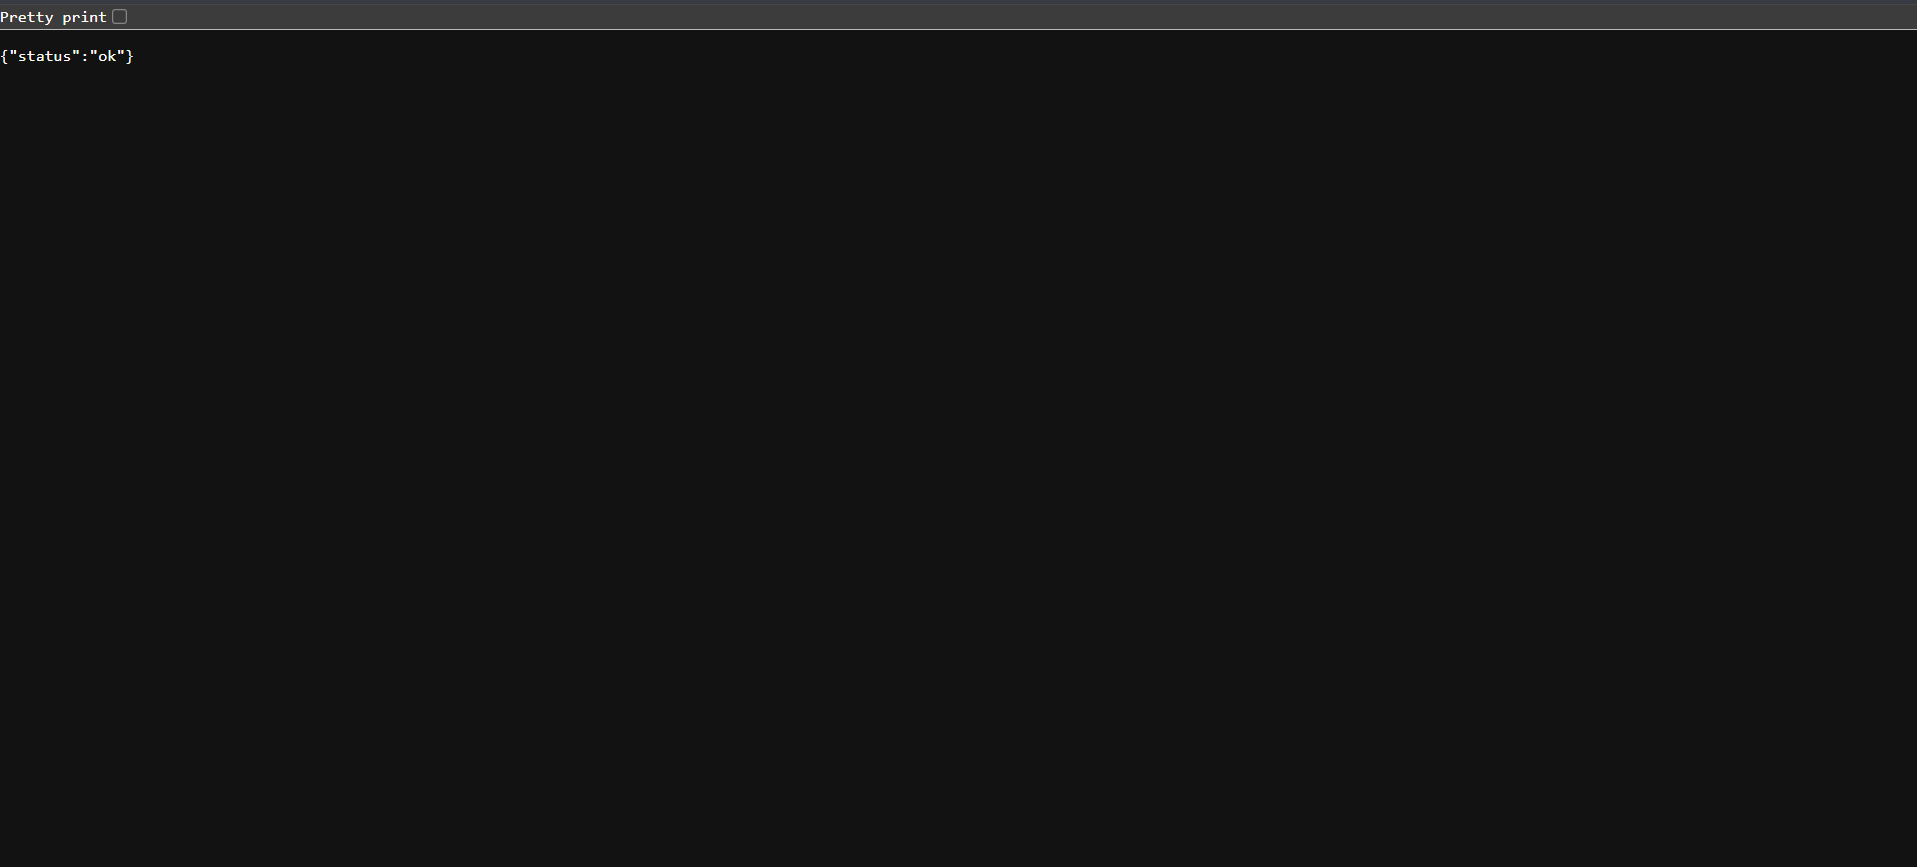
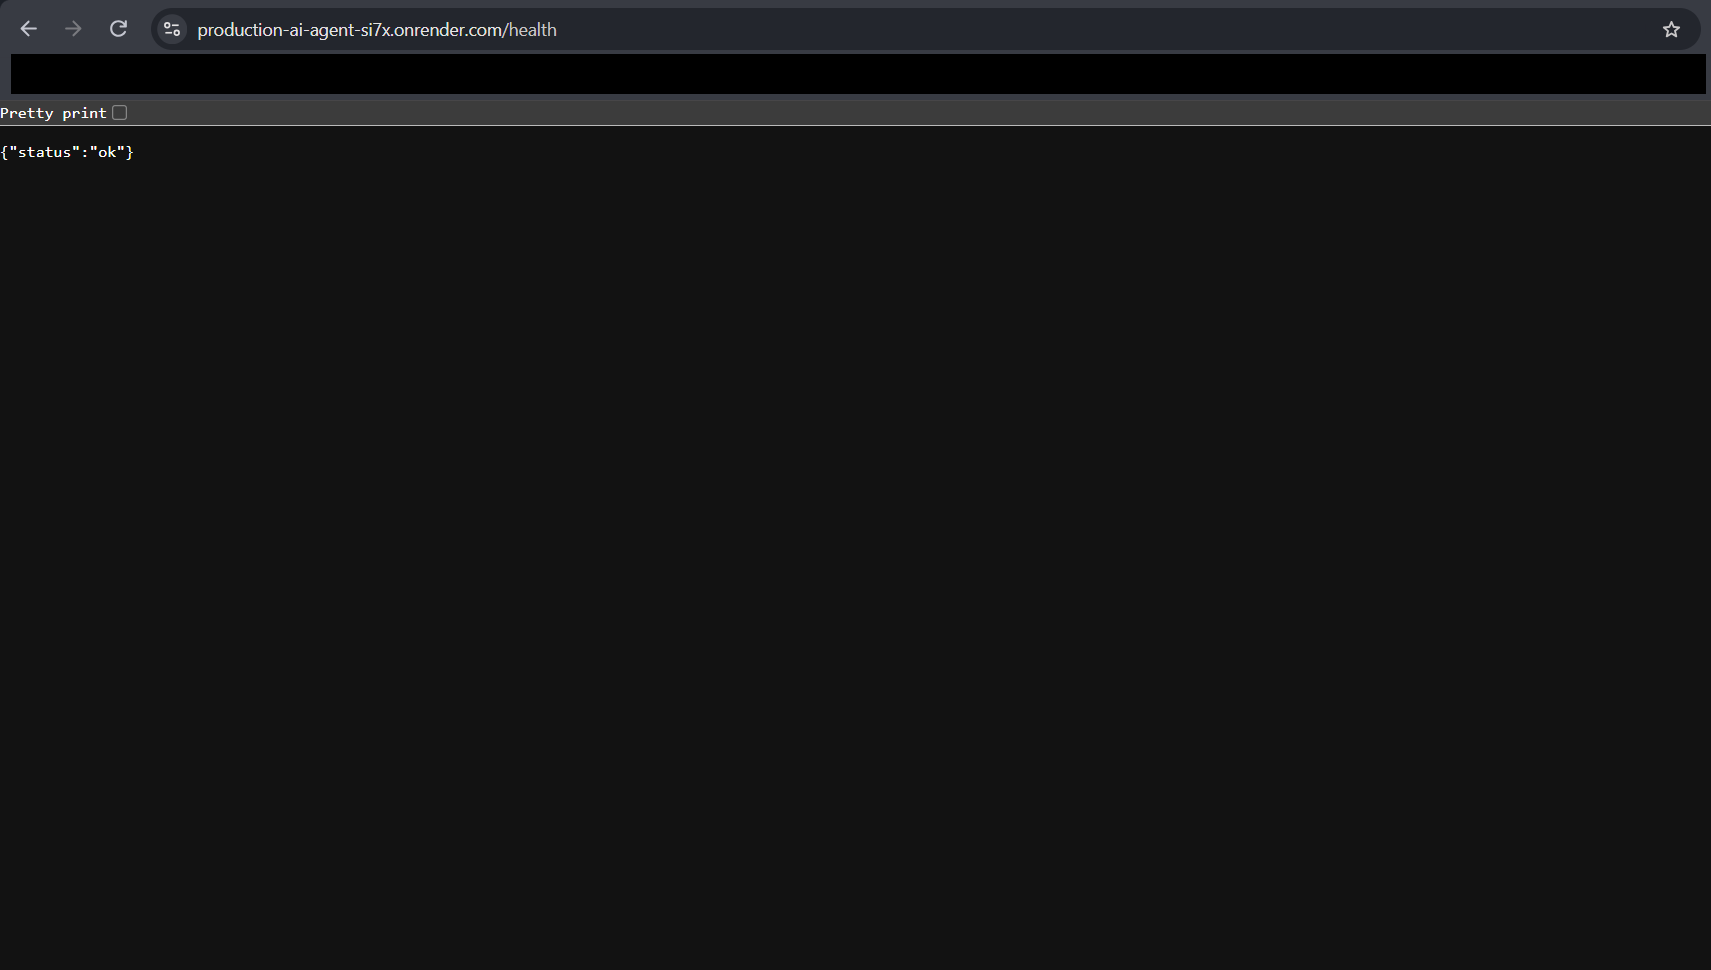
Finalize report: PASS 12/12, benchmark conclusions, running screenshot
- MISSION_ANSWERS: Part 6 checker output from WSL2 (PASS 12/12, 43/43)
- BENCHMARK_REPORT: section 6 conclusions
- screenshots/running.png: show public URL in address bar

Changed region(s): [[0.0, 0.0, 1.0, 0.1869]]

diff --git a/BENCHMARK_REPORT.md b/BENCHMARK_REPORT.md
@@ -10,11 +10,11 @@
 
 ## 1. SLO của agent
 
-| SLI | SLO | Lý do chọn ngưỡng này |
-|---|---|---|
-| p95 latency `/ask` | < 500 ms | Mock LLM trả lời ~200 ms (p50 ≈ 200 ms đo được); 500 ms chừa ~2,5× headroom cho retrieval và mạng mà người dùng chat vẫn thấy "nhanh". Khớp `--slo-p95-ms` mặc định của `load_test.py`. |
-| Error rate `/ask` | < 2 % | Mock LLM có `MOCK_ERROR_RATE=1%` lỗi upstream không tránh được; 2% = gấp đôi mức nền làm error budget, vượt mức này là có sự cố thật. |
-| Accuracy trên golden dataset | ≥ 80 % (gate release); mục tiêu 100% | 80% là ngưỡng mặc định của `run_eval.py`. Bộ 23 câu đều là kiến thức trong knowledge base, nên sau khi sửa KB, đặt `--min-accuracy 1.0` để mọi câu sai đều chặn merge. |
+| SLI                           | SLO                                     | Lý do chọn ngưỡng này                                                                                                                                                                                        |
+| ----------------------------- | --------------------------------------- | ----------------------------------------------------------------------------------------------------------------------------------------------------------------------------------------------------------------- |
+| p95 latency `/ask`          | < 500 ms                                | Mock LLM trả lời ~200 ms (p50 ≈ 200 ms đo được); 500 ms chừa ~2,5× headroom cho retrieval và mạng mà người dùng chat vẫn thấy "nhanh". Khớp `--slo-p95-ms` mặc định của `load_test.py`. |
+| Error rate `/ask`           | < 2 %                                   | Mock LLM có `MOCK_ERROR_RATE=1%` lỗi upstream không tránh được; 2% = gấp đôi mức nền làm error budget, vượt mức này là có sự cố thật.                                                     |
+| Accuracy trên golden dataset | ≥ 80 % (gate release); mục tiêu 100% | 80% là ngưỡng mặc định của `run_eval.py`. Bộ 23 câu đều là kiến thức trong knowledge base, nên sau khi sửa KB, đặt `--min-accuracy 1.0` để mọi câu sai đều chặn merge.               |
 
 ---
 
@@ -22,12 +22,12 @@
 
 ### 2.1 Concurrency vs latency (agent v2)
 
-| Concurrency | RPS | p50 (ms) | p95 (ms) | p99 (ms) | Error rate | SLO |
-|---|---|---|---|---|---|---|
-| 1 | 4.27 | 199.9 | 234.5 | 1683.2 | 1.00% | PASS |
-| 10 | 39.84 | 196.9 | 237.1 | 1695.7 | 0.67% | PASS |
-| 50 | 105.85 | 210.3 | 266.0 | 1722.6 | 0.67% | PASS |
-| 100 | 67.1 | 293.2 | 2685.8 | 3104.8 | 1.00% | FAIL (p95) |
+| Concurrency | RPS    | p50 (ms) | p95 (ms) | p99 (ms) | Error rate | SLO        |
+| ----------- | ------ | -------- | -------- | -------- | ---------- | ---------- |
+| 1           | 4.27   | 199.9    | 234.5    | 1683.2   | 1.00%      | PASS       |
+| 10          | 39.84  | 196.9    | 237.1    | 1695.7   | 0.67%      | PASS       |
+| 50          | 105.85 | 210.3    | 266.0    | 1722.6   | 0.67%      | PASS       |
+| 100         | 67.1   | 293.2    | 2685.8   | 3104.8   | 1.00%      | FAIL (p95) |
 
 Nguồn: `reports/load_v2_c{1,10,50,100}.json` (300 request mỗi mức).
 
@@ -40,10 +40,10 @@ Các request chậm ~1,7 s ở p99 tại mọi mức concurrency là tail latenc
 ### 2.2 Tail latency
 
 | `MOCK_SLOW_RATE` | avg (ms) | p95 (ms) | p99 (ms) |
-|---|---|---|---|
-| 0 | 191.9 | 232.8 | 241.9 |
-| 0.03 (mặc định) | 222.4 | 238.8 | 1691.3 |
-| 0.1 | 354.8 | 1682.0 | 1721.8 |
+| ------------------ | -------- | -------- | -------- |
+| 0                  | 191.9    | 232.8    | 241.9    |
+| 0.03 (mặc định) | 222.4    | 238.8    | 1691.3   |
+| 0.1                | 354.8    | 1682.0   | 1721.8   |
 
 Nguồn: `reports/load_v2_slow_{0,0.03,0.1}.json` (300 request, concurrency 20).
 
@@ -57,22 +57,22 @@ SLO không nên đặt theo average vì avg gộp đuôi chậm vào số đông
 
 ## 3. Benchmark chất lượng (develop, `eval/run_eval.py`)
 
-| Chỉ số | Agent v1 | Agent v2 | Agent v2 (sau khi sửa KB) |
-|---|---|---|---|
-| Accuracy | 4.35% (1/23) | 91.3% (21/23) | 100.0% (23/23) |
-| Avg tokens / câu | 55.9 | 109.1 | 117.6 |
-| Tổng cost (USD) | 0.000388 | 0.000762 | 0.000824 |
-| Cost / câu đúng (USD) | 0.00038775 | 0.00003627 | 0.00003583 |
-| Quality gate | FAIL (accuracy < 80%) | PASS (≥ 80%, 0 regression so với v1) | PASS (`--min-accuracy 1.0`, 0 regression so với v2) |
+| Chỉ số                 | Agent v1              | Agent v2                               | Agent v2 (sau khi sửa KB)                             |
+| ------------------------ | --------------------- | -------------------------------------- | ------------------------------------------------------ |
+| Accuracy                 | 4.35% (1/23)          | 91.3% (21/23)                          | 100.0% (23/23)                                         |
+| Avg tokens / câu        | 55.9                  | 109.1                                  | 117.6                                                  |
+| Tổng cost (USD)         | 0.000388              | 0.000762                               | 0.000824                                               |
+| Cost / câu đúng (USD) | 0.00038775            | 0.00003627                             | 0.00003583                                             |
+| Quality gate             | FAIL (accuracy < 80%) | PASS (≥ 80%, 0 regression so với v1) | PASS (`--min-accuracy 1.0`, 0 regression so với v2) |
 
 Nguồn: `reports/eval_v1.json`, `reports/eval_v2.json`, `reports/eval_v2_fixed.json`.
 
 **Những câu v2 trả lời sai ban đầu và cách bạn sửa:**
 
-| ID | Keyword bị thiếu | Bạn đã sửa gì |
-|---|---|---|
-| security-02 ("JWT khác gì API key trong xác thực?") | `token`, `hết hạn`, `chữ ký` | KB chưa có tài liệu nào về JWT nên retrieval trả về rỗng, LLM trả câu chung chung. Thêm entry vào `KNOWLEDGE_BASE` với từ khoá kích hoạt `jwt`, `api key`, `xác thực`, nội dung giải thích JWT là token tự chứa, server kiểm chữ ký, có thời điểm hết hạn (claim `exp`), khác API key cố định. |
-| scaling-03 ("Kubernetes HPA scale dựa trên những chỉ số nào?") | `cpu`, `memory`, `custom metrics` | Tương tự, KB không có tài liệu về HPA. Thêm entry kích hoạt bởi `kubernetes`, `hpa`, `autoscal`: HPA scale theo CPU, memory utilization hoặc custom metrics. |
+| ID                                                                   | Keyword bị thiếu                      | Bạn đã sửa gì                                                                                                                                                                                                                                                                                                                               |
+| -------------------------------------------------------------------- | --------------------------------------- | ------------------------------------------------------------------------------------------------------------------------------------------------------------------------------------------------------------------------------------------------------------------------------------------------------------------------------------------------ |
+| security-02 ("JWT khác gì API key trong xác thực?")              | `token`, `hết hạn`, `chữ ký`  | KB chưa có tài liệu nào về JWT nên retrieval trả về rỗng, LLM trả câu chung chung. Thêm entry vào `KNOWLEDGE_BASE` với từ khoá kích hoạt `jwt`, `api key`, `xác thực`, nội dung giải thích JWT là token tự chứa, server kiểm chữ ký, có thời điểm hết hạn (claim `exp`), khác API key cố định. |
+| scaling-03 ("Kubernetes HPA scale dựa trên những chỉ số nào?") | `cpu`, `memory`, `custom metrics` | Tương tự, KB không có tài liệu về HPA. Thêm entry kích hoạt bởi `kubernetes`, `hpa`, `autoscal`: HPA scale theo CPU, memory utilization hoặc custom metrics.                                                                                                                                                                  |
 
 Trước khi thêm, đã grep `golden_dataset.jsonl` để chắc các từ khoá kích hoạt mới chỉ xuất hiện trong đúng 2 câu này, không "cướp" retrieval của câu khác (eval cuối báo 0 regression). Không sửa `golden_dataset.jsonl`. Đã chép bản sửa sang `production/utils/mock_llm.py` để stack Docker dùng cùng KB.
 
@@ -109,17 +109,18 @@ Unit test alert rules: `promtool test rules alert_rules_test.yml` → `SUCCESS`.
 
 ### 4.2 Thí nghiệm "phá hệ thống"
 
-| # | Thay đổi | Alert nào firing | Thời gian từ lúc đổi → firing | Panel nào phản ánh rõ nhất |
-|---|---|---|---|---|
-| A | `MOCK_ERROR_RATE=0.2` | `AgentHighErrorRate` | 91 s (pending ở +31 s, + `for: 1m`) | Error rate (lên 18,9%) |
-| B | `MOCK_SLOW_RATE=0.3` | `AgentHighLatencyP95` | 152 s (pending ở +31 s, + `for: 2m`) | p50/p95/p99 theo thời gian: p95 1917 ms, p99 1983 ms nhưng avg chỉ 640 ms |
-| C | `LLM_MODEL=mock-llm-large` | `LLMCostBurnRateHigh` | 147 s (pending ở ~+21 s, + `for: 2m`) | Cost USD/giờ: 2,50 → 36,0 (×14,4); LLM p95 197 → 494 ms (×2,5) |
-| D | `docker pause` 1 instance | `AgentInstanceDown` | 45 s (pending ở +15 s, + `for: 30s`) | Instances up (2 → 1); `up{instance="172.22.0.8:8000"} = 0` |
-| E | `AGENT_VERSION=v1` | Không có | — | Retrieval hit ratio (100% → không còn series), tokens/s (input 1441 → 667), bảng version (v2 → v1) |
+| # | Thay đổi                   | Alert nào firing       | Thời gian từ lúc đổi → firing      | Panel nào phản ánh rõ nhất                                                                          |
+| - | ---------------------------- | ----------------------- | ---------------------------------------- | -------------------------------------------------------------------------------------------------------- |
+| A | `MOCK_ERROR_RATE=0.2`      | `AgentHighErrorRate`  | 91 s (pending ở +31 s, + `for: 1m`)   | Error rate (lên 18,9%)                                                                                  |
+| B | `MOCK_SLOW_RATE=0.3`       | `AgentHighLatencyP95` | 152 s (pending ở +31 s, + `for: 2m`)  | p50/p95/p99 theo thời gian: p95 1917 ms, p99 1983 ms nhưng avg chỉ 640 ms                             |
+| C | `LLM_MODEL=mock-llm-large` | `LLMCostBurnRateHigh` | 147 s (pending ở ~+21 s, + `for: 2m`) | Cost USD/giờ: 2,50 → 36,0 (×14,4); LLM p95 197 → 494 ms (×2,5)                                      |
+| D | `docker pause` 1 instance  | `AgentInstanceDown`   | 45 s (pending ở +15 s, + `for: 30s`)  | Instances up (2 → 1); `up{instance="172.22.0.8:8000"} = 0`                                            |
+| E | `AGENT_VERSION=v1`         | Không có              | —                                       | Retrieval hit ratio (100% → không còn series), tokens/s (input 1441 → 667), bảng version (v2 → v1) |
 
 Thời gian đo bằng script hỏi `GET /api/v1/alerts` mỗi 5 s, tính từ lúc chạy `docker compose up -d` (hoặc `docker pause`). Tải nền: Locust 30 user, 2 instance. Mỗi thí nghiệm trả `.env` về mặc định trước khi làm thí nghiệm sau.
 
 Quan sát thêm:
+
 - **Ngưỡng cost đặt thấp hơn mức chi tiêu bình thường.** Ở tải nền 30 user (~19 req/s, v2, model small) cost burn rate đã là 2,0–2,5 USD/giờ, nên `LLMCostBurnRateHigh` firing ngay cả khi chưa phá gì (và nhấp nháy quanh ngưỡng). Với thí nghiệm C, thời gian 147 s vì vậy không "sạch". Production cần đặt ngưỡng theo baseline thực tế (vd 2–3× chi phí bình thường) hoặc theo budget/ngày.
 - **Trong B, cost alert tự tắt:** request chậm → user Locust (vòng kín) gửi ít request hơn → tiền đốt chậm hơn. Một sự cố latency có thể "làm đẹp" một metric khác.
 - **Trong D:** Nginx log 29 lỗi `504` trong 2 phút pause, nhưng error rate do agent tự đo chỉ 0,7% (panel xanh), vì request timeout ở Nginx chưa bao giờ được agent xử lý xong. Cần giám sát ở tầng load balancer hoặc synthetic check từ ngoài.
@@ -129,6 +130,7 @@ Quan sát thêm:
 **Thí nghiệm E không làm alert nào firing. Bạn sẽ phát hiện loại sự cố này trong production bằng cách nào?**
 
 Đây là lỗi chất lượng, không phải lỗi hạ tầng: request vẫn 200, nhanh hơn, rẻ hơn — mọi Golden Signal đều "đẹp". Cách phát hiện:
+
 1. **Chặn trước khi deploy:** chạy eval golden dataset trong CI (Mục 3: v1 chỉ 4,35% → quality gate FAIL, exit code 1), nên bản v1 không được merge/deploy.
 2. **Giám sát sau khi deploy:** chạy eval định kỳ (synthetic) trên production và đẩy accuracy thành metric để alert; alert theo **metric hành vi** như retrieval hit ratio giảm về 0, tokens/request giảm đột ngột, hoặc `agent_info` version đổi ngoài lịch release.
 3. **Tín hiệu người dùng:** tỉ lệ thumbs-down/feedback, LLM-as-judge chấm mẫu ngẫu nhiên traffic thật.
@@ -165,10 +167,10 @@ POST /ask                    1718.0 ms  100%
 
 ## 5. Benchmark scaling (production, Locust headless, 100 users, 2 phút)
 
-| Số instance | RPS | p50 (ms) | p95 (ms) | p99 (ms) | Failures |
-|---|---|---|---|---|---|
-| 1 | 59.99 | 190 | 230 | 1700 | 71 / 7149 (0,99%) |
-| 3 | 60.24 | 190 | 220 | 1700 | 65 / 7181 (0,91%) |
+| Số instance | RPS   | p50 (ms) | p95 (ms) | p99 (ms) | Failures          |
+| ------------ | ----- | -------- | -------- | -------- | ----------------- |
+| 1            | 59.99 | 190      | 230      | 1700     | 71 / 7149 (0,99%) |
+| 3            | 60.24 | 190      | 220      | 1700     | 65 / 7181 (0,91%) |
 
 Nguồn: dòng `POST /ask` trong `benchmark-results/scale_1_stats.csv` và `scale_3_stats.csv` (Locust headless `-u 100 -r 10 -t 2m`). Locust làm tròn percentile theo bucket (190, 220, 1700…). Failures đều là `503` do `MOCK_ERROR_RATE=1%`.
 
@@ -177,6 +179,7 @@ Nguồn: dòng `POST /ask` trong `benchmark-results/scale_1_stats.csv` và `scal
 **Giải thích kết quả:** Scale có cải thiện p95 không? Nút thắt nằm ở đâu?
 
 **Không** — RPS (59,99 → 60,24) và p95 (230 → 220 ms) gần như không đổi. Hai lý do:
+
 1. **Tải bị giới hạn ở phía client, không phải server.** Locust là tải vòng kín: mỗi user chờ `between(0.5, 2)` giây (TB 1,25 s) giữa các request, nên 100 user tạo tối đa ≈ 100 / (1,25 + 0,23) ≈ 67 req/s — đúng bằng tổng RPS đo được (66,4 gồm cả `/health`). Lúc cao điểm chỉ có 22 request đang xử lý cùng lúc trên cả hệ thống, 1 instance chưa bão hoà, nên thêm instance không có gì để "gánh" thêm.
 2. **Nút thắt latency là LLM.** Mỗi request phải chờ mock LLM ~200 ms (98% thời gian trace, Mục 4.3); scale ngang chia tải nhưng không làm một lần gọi LLM nhanh hơn, và p99 1700 ms là tail latency của LLM ở cả hai cấu hình.
 
@@ -187,9 +190,19 @@ Scale ngang chỉ cải thiện p95 khi instance thật sự quá tải (như c=
 ## 6. Kết luận
 
 - 3 điều bạn học được về benchmark & observability:
-  1. ...
-  2. ...
-  3. ...
+  1. **Đo đúng chỉ số và đúng điều kiện:** Average dễ che giấu tail latency (p99 nhảy ~1,7 s dù avg chỉ nhích nhẹ), eval nhỏ dễ bị nhiễu latency nên cần load test để đo p95/p99, và benchmark scaling phải lưu ý cơ chế vòng kín của client cũng như `--no-deps` để số instance phản ánh đúng thực tế.
+  2. **Đánh giá trade-off chất lượng, chi phí và độ trễ:** Agent v2 (retrieval + context) nâng accuracy từ 4,35% lên 91,3% (và 100% sau khi bổ sung KB cho `security-02` & `scaling-03`), đồng thời giảm cost trên mỗi câu đúng ~10,7× dù tổng token/cost cao hơn; gắn eval vào CI (`exit=1` khi fail) giúp chặn regression trước khi merge.
+  3. **Kết hợp metrics, logs, traces và alerts thay vì nhìn một tín hiệu đơn lẻ:** Trace/log giúp định vị nhanh bottleneck nằm ở upstream LLM (~98,6% thời gian span `chat mock-llm-small`) thay vì retrieval hay code agent; đồng thời cần cảnh giác điểm mù của alert (ngưỡng cost đặt thấp gây nhiễu, lỗi timeout ở Nginx/LB chưa chạm tới metric của agent, hoặc lỗi sai logic/chất lượng như v1 không kích hoạt alert hạ tầng).
 - Nếu đưa agent này lên production thật, bạn sẽ thêm metric / alert nào nữa?
 
-...
+**Metrics:**
+
+* *Edge / Load Balancer metrics* (Nginx/gateway status 502/503/504, upstream timeout/retry count) để bắt lỗi khi instance down hoặc quá tải trước khi chạm agent.
+* *Per-stage latency & token breakdown* (TTFT / time-to-first-token, retrieval latency, LLM latency, queue wait time) và *per-tenant / per-endpoint cost & token usage* để kiểm soát chi phí theo khách hàng/tác vụ.
+* *Quality & behavioral telemetry* (tỷ lệ fallback/empty retrieval, độ dài context/prompt bất thường, tỷ lệ phản hồi lỗi schema/hallucination hoặc feedback người dùng).
+
+**Alerts:**
+
+* *Gateway 5xx / 504 spike* và *SLO burn-rate alert* (multi-window burn rate theo error budget và p95/p99 thay vì ngưỡng cố định dễ báo động giả).
+* *Cost anomaly / burn-rate alert* đặt theo baseline thực tế (ví dụ > 2–3× mức trung bình theo cửa sổ trượt hoặc gần hạn mức ngân sách/ngày).
+* *Behavioral / quality drift alert* (ví dụ retrieval hit ratio hoặc độ chính xác trên bộ synthetic eval định kỳ sụt giảm đột ngột, hoặc `agent_info` version thay đổi ngoài kế hoạch release).

diff --git a/MISSION_ANSWERS.md b/MISSION_ANSWERS.md
@@ -469,15 +469,15 @@ Không request nào lỗi (Nginx có `proxy_next_upstream error timeout http_503
      ✅ Cost guard
      ✅ Config từ environment variables
      ✅ Structured logging
-     ⚠  Graceful shutdown
+     ✅ Graceful shutdown
      ✅ Public URL ready (Railway / Render config)
 ----------------------------------------------------------------
-  Result: 11/12 tiêu chí đạt · 42/42 checks passed
-  ⚠  Chưa kiểm tra được: Graceful shutdown
-  ❌ CHƯA ĐẠT — còn tiêu chí chưa kiểm tra được (⚠). Chạy đầy đủ trên máy có Docker.
+  Result: 12/12 tiêu chí đạt · 43/43 checks passed
+  🎉 PASS 12/12 — PRODUCTION READY! Deploy nào!
+================================================================
 ```
 
-_Output trên chạy bằng Python Windows: mục ⚠ là phần gửi SIGTERM lúc chạy uvicorn trực tiếp, Windows không làm được (phần `docker stop` của cùng tiêu chí đã ✅: exit code 0 trong 0,7 s). Cần chạy lại trong WSL2 để có `PASS 12/12` rồi thay khối này._
+_Chạy đầy đủ (có Docker) trong WSL2 Ubuntu, Python 3.12 trong venv, `python check_production_ready.py` từ thư mục `06-lab-complete/`._
 
 ---
 
